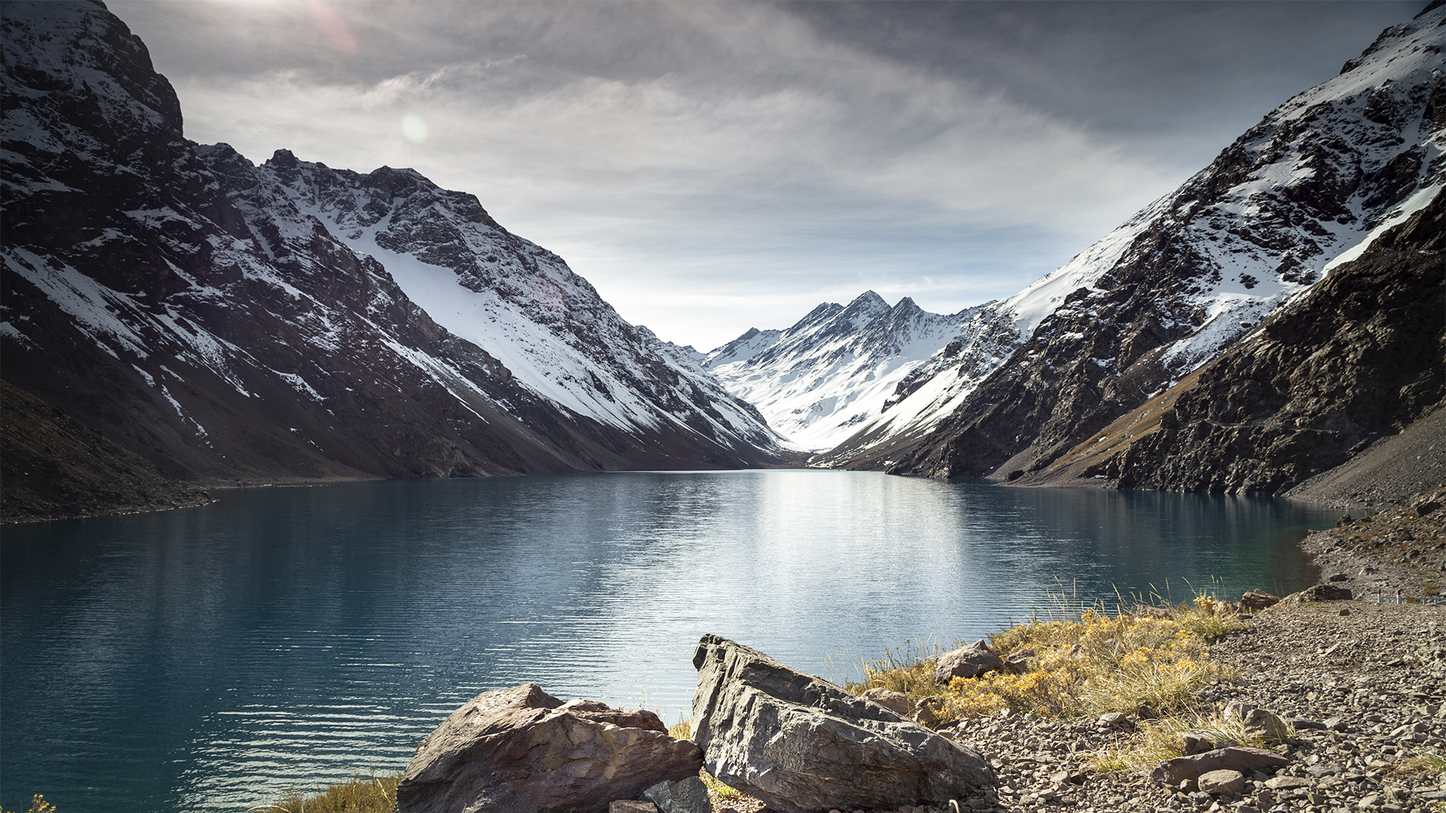
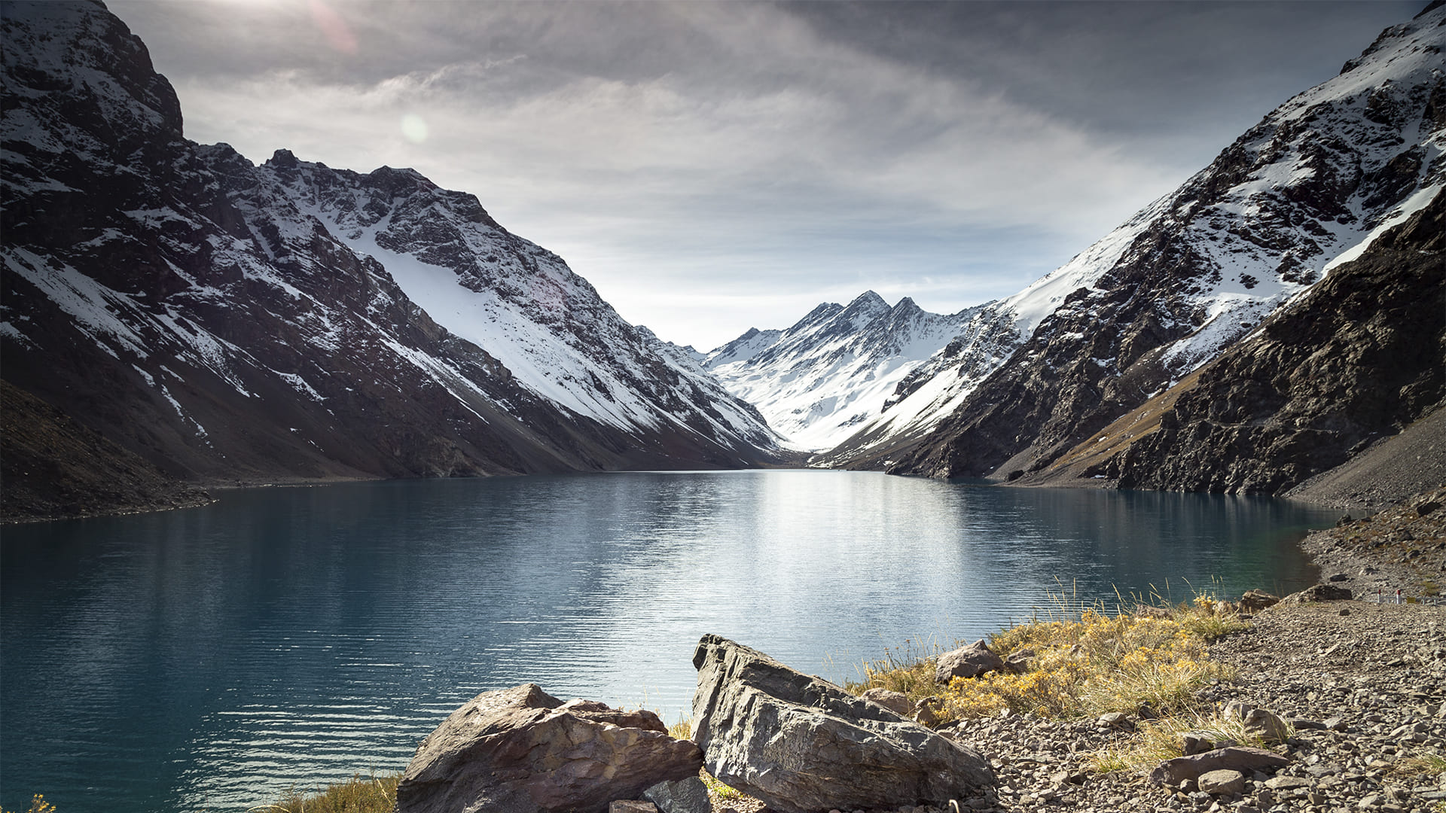
compress images and fix the image url

Changed region(s): [[0.5, 0.9778, 0.5312, 1.0]]

diff --git a/src/app/pages/home/sections/hero-banner/hero-banner.component.scss b/src/app/pages/home/sections/hero-banner/hero-banner.component.scss
@@ -2,7 +2,7 @@
     @apply h-[100vh] xl:h-[80vh];
     width: 100%;
     background: linear-gradient(rgba(0, 0, 0, 0.4), rgba(0, 0, 0, 0.4)),
-        url('/assets/images/home/hero-banner/laguna-mountain.jpg');
+        url('assets/images/home/hero-banner/laguna-mountain.jpg');
     background-repeat: no-repeat;
     background-position: center;
     background-size: cover;

diff --git a/src/app/pages/home/sections/contact/contact.component.scss b/src/app/pages/home/sections/contact/contact.component.scss
@@ -2,7 +2,7 @@
     height: 400px;
     width: 100%;
     background: linear-gradient(rgba(0, 0, 0, 0.4), rgba(0, 0, 0, 0.4)),
-        url('/assets/images/home/contact/snow-mountain.png');
+        url('assets/images/home/contact/snow-mountain.png');
     background-repeat: no-repeat;
     background-position: center;
     background-size: cover;
